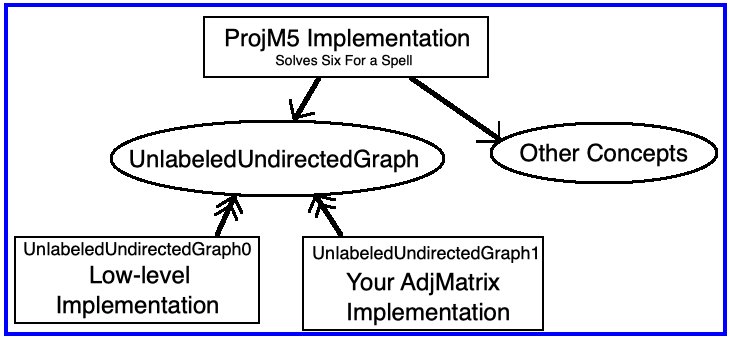
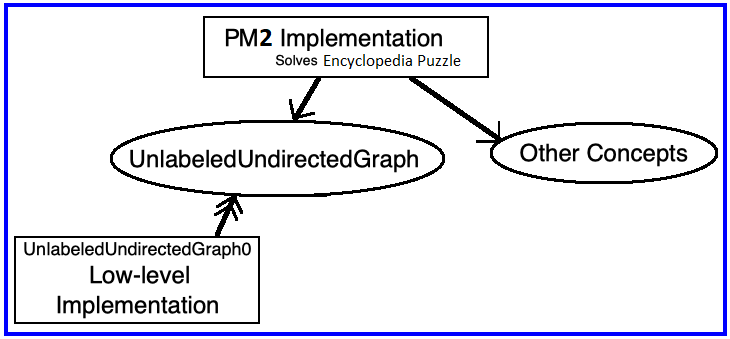
update PM2 problem

diff --git a/Assignments/2023/PM2/PM2.html b/Assignments/2023/PM2/PM2.html
@@ -11,13 +11,6 @@
 <h1>Project M5</h1>
 <hr />
 	
-<h3>0. References</h3>
-<ul>
-  <li><a href="https://moodle.rose-hulman.edu/mod/folder/view.php?id=3338008" target="new">Dictionary Resources for Project</a><a href="https://drholly77.github.io/CSSE373Pages/CheckingComponent/CheckingComponentReview.pdf" target="new"></a></li>
-  <li><a href="https://moodle.rose-hulman.edu/mod/folder/view.php?id=3338041&forceview=1" target="new">Graph Data for Project</a><a href="https://drholly77.github.io/CSSE373Pages/CheckingComponent/CheckingComponentConstruction.pdf" target="new"></a><a href="https://drholly77.github.io/CSSE373Pages/ComponentUsage/CArrayUsage.html" target="_blank"></a></li>
-  <li><a href="https://moodle.rose-hulman.edu/mod/folder/view.php?id=3340096" target="new">PM2 Starter Files</a><a href="https://moodle.rose-hulman.edu/mod/page/view.php?id=3336478" target="new"></a></li>
-</ul>
-	
 		
 <h3>1. Setup</h3>
 <table border="0" width="100%">
@@ -36,8 +29,10 @@
 			    <ul>
           <li>Copy the PM2 folder to your <em>csse373devenv202330-yourID</em> folder as shown in the screen shot to the right</li>
           <li>Once you have copied this folder you can use VS2022 to open the PM2 project by double clicking on PM2.sln  </li>
+		  <li>The contents of this folder are shown in the screen shot below</li>
 			</ul>
-        </ul></td>
+        </ul>
+		<img src="PM2FileExplorer.png" width="336" height="409" alt=""/></td>
       <td><img src="PM2FolderView.png" width="247" height="397" alt=""/></td>
     </tr>
     <tr>
